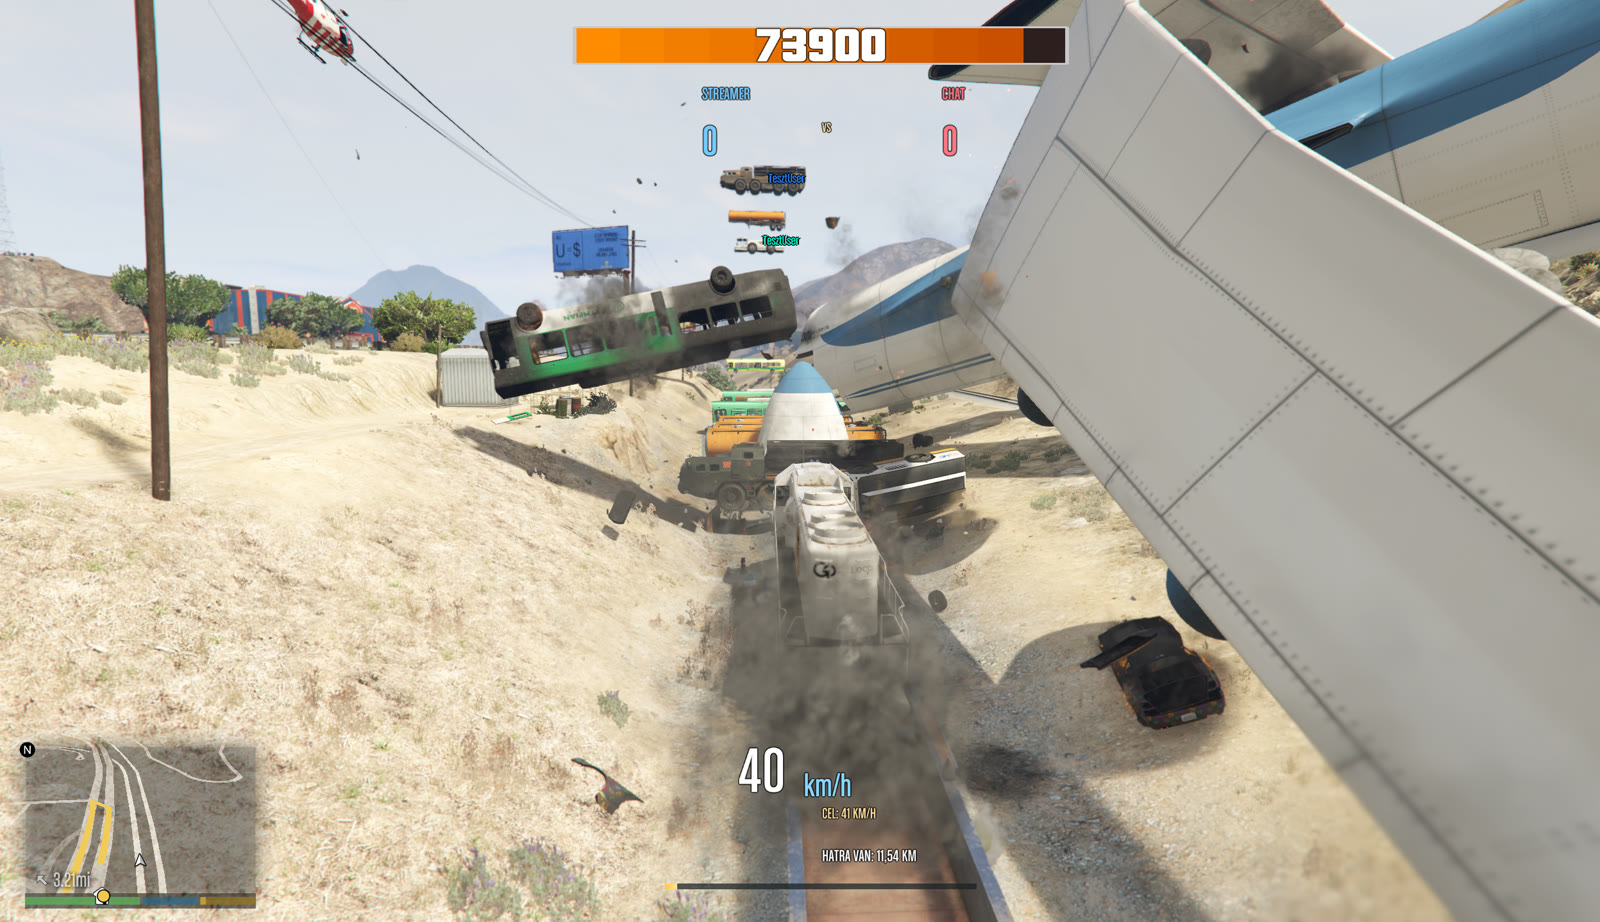
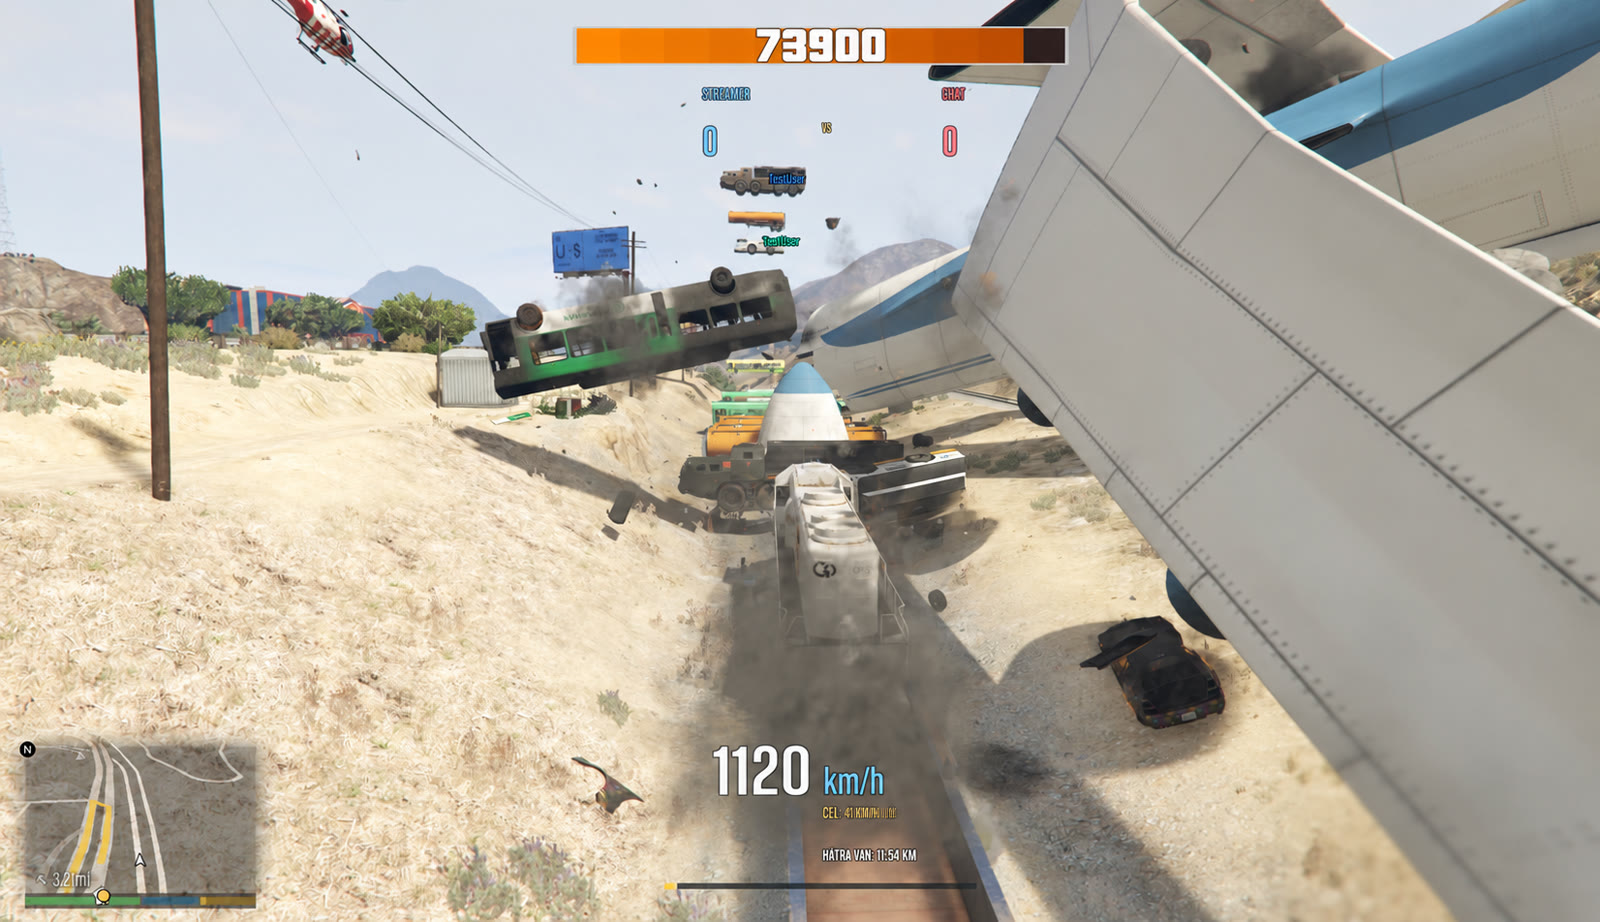
Use 1120 km/h train screenshot on FastTrainTracks section

diff --git a/index.html b/index.html
@@ -22,7 +22,7 @@
   <link rel="preconnect" href="https://fonts.googleapis.com" />
   <link rel="preconnect" href="https://fonts.gstatic.com" crossorigin />
   <link href="https://fonts.googleapis.com/css2?family=Bebas+Neue&family=Manrope:wght@400;500;600;700&display=swap" rel="stylesheet" />
-  <link rel="stylesheet" href="style.css?v=fix24" />
+  <link rel="stylesheet" href="style.css?v=fix25" />
 </head>
 <body>
   <div class="grain"></div>
@@ -282,6 +282,6 @@
     </div>
   </footer>
 
-  <script src="app.js?v=fix24"></script>
+  <script src="app.js?v=fix25"></script>
 </body>
 </html>

diff --git a/app.js b/app.js
@@ -309,7 +309,7 @@ const MODE_PREVIEWS = [
 
 const GALLERIES = {
   train: [
-    ["images/traintracks-speed.jpg", "Train mód — sebességkorlát nélkül"],
+    ["images/traintracks-speed.jpg", "1120 km/h — Fast Train Tracks"],
   ],
   dis: [
     ["images/dis-user-1.jpg", "Dismemberment"],
